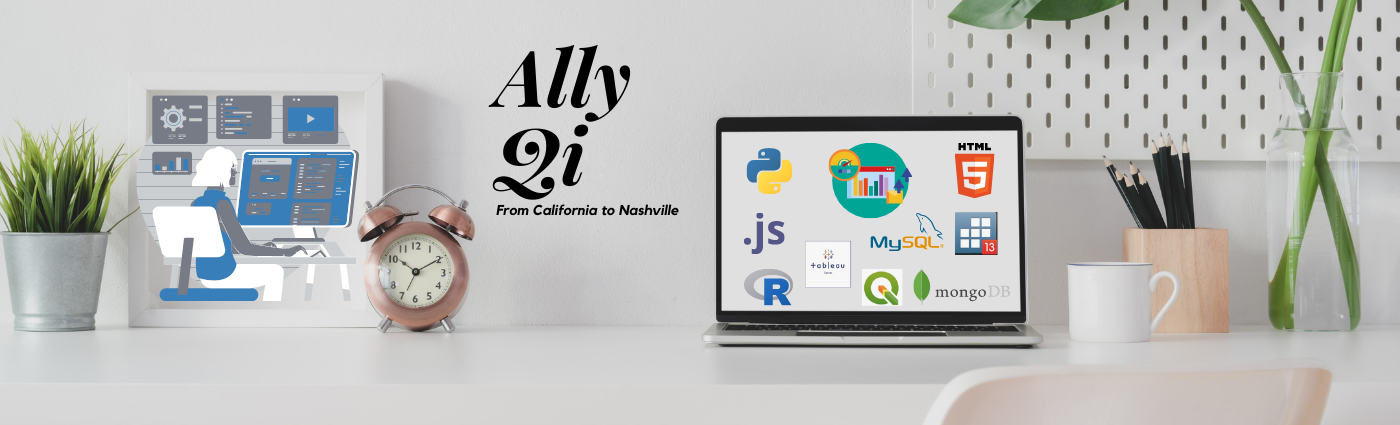
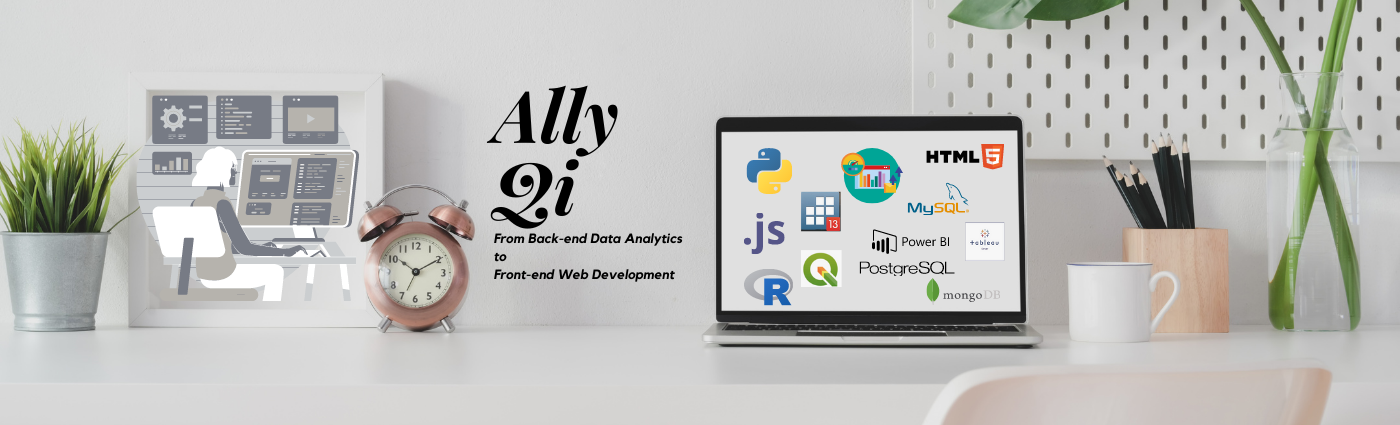
Updated Images

diff --git a/index.html b/index.html
@@ -75,7 +75,9 @@
                         </p>
                         <ul class="icons">
                           <li><a href="https://github.com/maia1220" class="icon fa-github"><span class="label">GitHub</span></a></li>
-                          <li><a href="https://www.linkedin.com/in/mcally/" class="icon fa-linkedin"><span class="label">LinkedIn</span></a></li>
+						  <li><a href="https://www.linkedin.com/in/mcally/" class="icon fa-linkedin"><span class="label">LinkedIn</span></a></li>
+						  <li><a href="https://www.youtube.com/channel/UCyL13uBEJ-_bPB7PAl8gegA" class="icon fa-youtube-play" style="color:red"><span class="label">YouTube</span></a></li>
+						  <li><a href="https://www.shutterstock.com/g/VoldeNuit" class="icon fa-camera"><span class="label">Shutterstock</span></a></li>
 						</ul>
 						<p>
 							If you'd like to support my work by feeding me!
@@ -118,7 +120,7 @@
 						Experienced in clinical research methods, data workflow automation, database design, 
 						data cleaning and analysis using various programing languages. 
 						Skilled in Microsoft Excel VBA, Stata, R, SPSS, Python (Pandas, NumPy, Matplotlib, API, Flask app), JavaScript (D3 and Plotly), 
-						HTML (Bootstrap and CSS), and both SQL and non-SQL databases (PostgreSQL, MongoDB, REDCap). 
+						HTML (Bootstrap and CSS), Tableau & Power BI, and both SQL and non-SQL databases (PostgreSQL, MongoDB, REDCap). 
 						Currently overseeing data management and assisting with trial start-up activities 
 						including database construction, monitoring plan creation, regulatory documents 
 						and study progress tracking for multi-center large scale longitudinal clinical trials.
